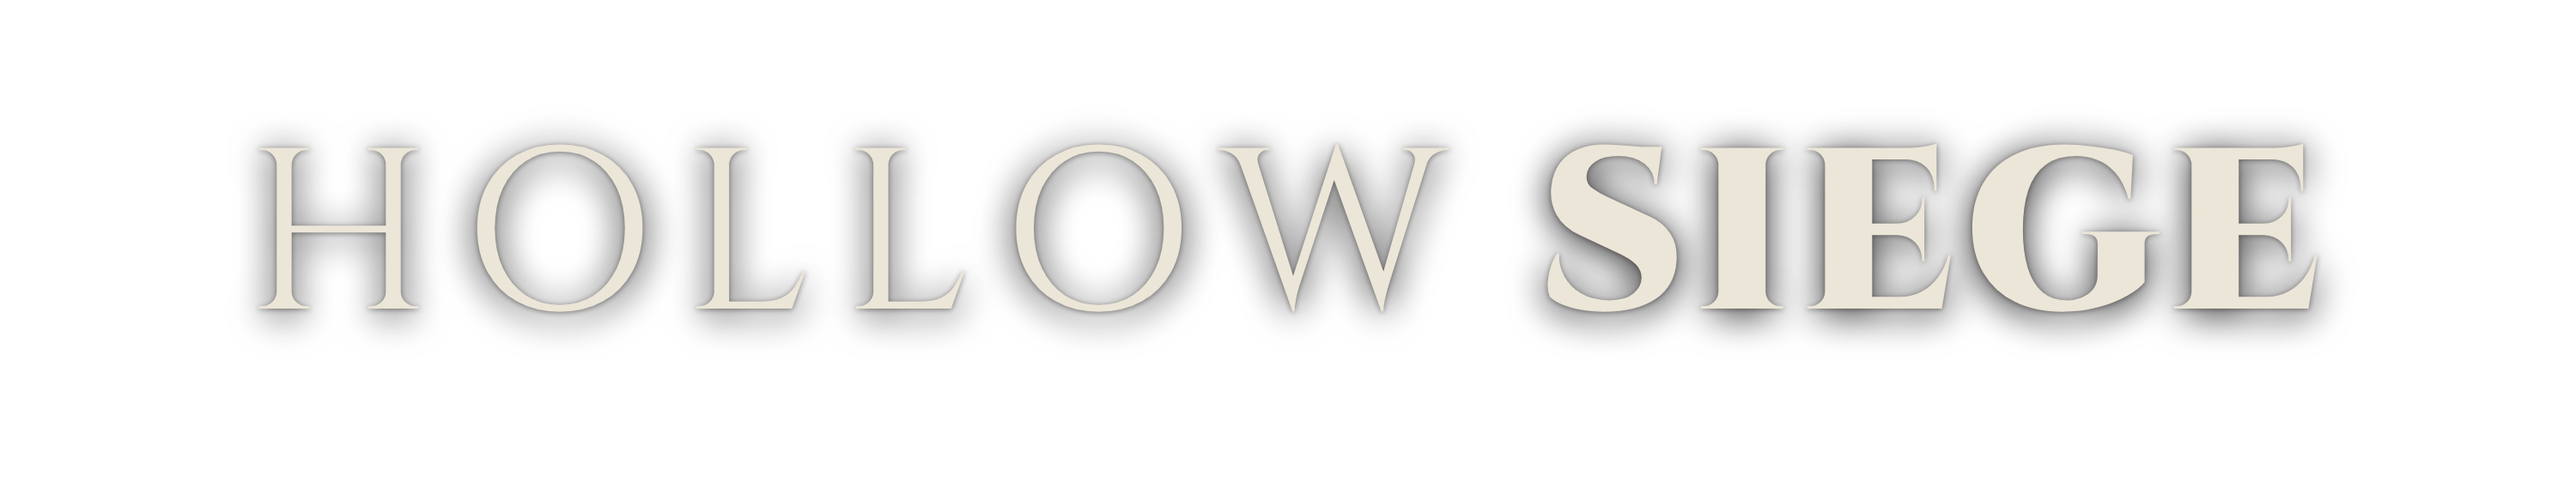
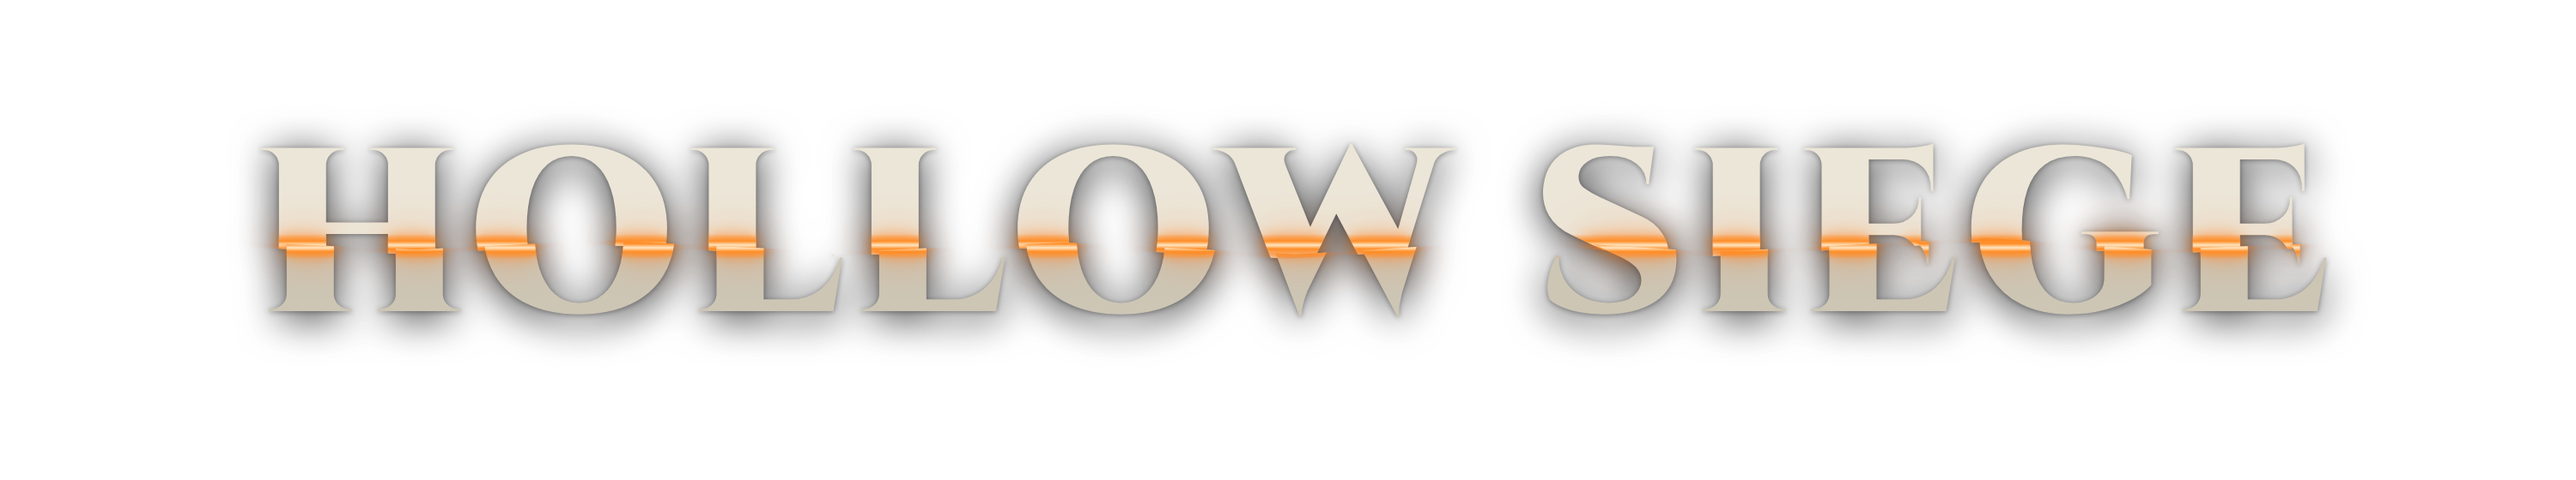
The wordmark gets its fracture, properly masked this time
Carved bone-white Cinzel split by an ember crack - the same signature as
the statue the cinematic trailer opens on, and the same orange as the
molten fissures around the anchors in the artwork. The lower half is
displaced nine pixels right and three down and sits a shade darker, so
the break reads as displacement.

Two earlier attempts were thrown away and both failed the same way: a
blurred orange rectangle behind the text bleeds across the letters and
reads as a highlighter stroke. The fix is to put the orange in a
background-image and background-clip it to the text, so the glow exists
only inside the letterforms and blooms off the glyph shape. Four layers
- bone top, bone bottom, heat top, heat bottom - all clipped to the
glyphs.

The other thing that was wrong: the two halves had a gap between their
clip paths, so the background showed through along the whole word and it
was a strikethrough again. They now overlap by about 3%. The
displacement is what says broken, not a gap. A version with the
displacement and no ember was rendered to check, and it reads as a
printing error - the ember is doing the work.

Checked at 460x215 and 231x87 on a cold slate ground and a warm one, and
at 120x45 where the word still reads and the ember becomes a warm smear.

Claude-Session: https://claude.ai/code/session_01SHhBFXXCMQxTyw3U1kGZgM

Changed region(s): [[0.093, 0.2732, 0.558, 0.6982], [0.589, 0.3036, 0.93, 0.6679], [0.744, 0.3339, 0.775, 0.3643]]

diff --git a/Docs/capsule/wordmark.html b/Docs/capsule/wordmark.html
@@ -1,35 +1,51 @@
 <!doctype html><html><head><meta charset="utf-8">
 <!--
-  Hollow Siege wordmark.
+  Hollow Siege wordmark — carved stone, split by an ember fracture.
+  Echoes the cracked statue the cinematic trailer opens on.
 
-  Flat, one colour, no gradient, no outline, no ornament. The only idea in it
-  is the weight contrast: HOLLOW set light and open, SIEGE set black and tight.
-  That reads as the two halves of the title rather than as decoration, and it
-  is the thing that survives being shrunk to 231px.
+  FOUR LAYERS, ALL CLIPPED TO THE GLYPHS.
+    1  bone, upper half, clipped along an irregular break
+    2  bone slightly darker, lower half, same break, offset 9px right / 3px down
+    3  heat, upper half
+    4  heat, lower half
+  The heat layers are a thin orange band in a background-image that is then
+  background-clip:text — so the glow exists ONLY inside the letterforms and
+  blooms off the glyph shape. Blurring a rectangle behind the text instead,
+  which was the first attempt, bleeds over the letters and reads as a
+  highlighter stroke.
 
-  What it deliberately is NOT: a vertical gold gradient with a heavy black
-  keyline and a drop shadow and an ornamental divider. That combination is the
-  default Photoshop layer style for fantasy logos and it reads as a free asset
-  pack, which is exactly how the first attempt came out.
+  THE HALVES OVERLAP BY ~3%. With a gap between the clip paths the background
+  shows through along the whole word and it reads as a strikethrough. The
+  displacement, not a gap, is what says "broken".
 
   Render:
     chrome --headless --hide-scrollbars --default-background-color=00000000 \
            --window-size=3000,560 --screenshot=out.png file://.../wordmark.html
 -->
 <style>
-@font-face{font-family:'Cinzel';font-weight:400;
-  src:url('file:///home/user/MegaBonk/Assets/DownloadedFonts/Cinzel/static/Cinzel-Regular.ttf');}
 @font-face{font-family:'Cinzel';font-weight:900;
   src:url('file:///home/user/MegaBonk/Assets/DownloadedFonts/Cinzel/static/Cinzel-Black.ttf');}
 *{box-sizing:border-box}
 html,body{margin:0;padding:0;background:transparent;overflow:hidden}
 .wrap{width:3000px;height:560px;display:flex;align-items:center;justify-content:center}
-.mark{font-family:'Cinzel';font-size:268px;line-height:1.02;white-space:nowrap;
-  color:#ece6d8;
-  /* Just enough shadow to hold over a bright valley. Not a style, a necessity. */
-  filter:drop-shadow(0 6px 22px rgba(0,0,0,.62)) drop-shadow(0 1px 3px rgba(0,0,0,.5));}
-.mark .l{font-weight:400;letter-spacing:.145em}
-.mark .h{font-weight:900;letter-spacing:.045em}
+.m{position:relative;display:inline-block;line-height:1.02;white-space:nowrap;
+   font-family:'Cinzel';font-weight:900;font-size:268px;
+   letter-spacing:.055em;text-indent:.055em;
+   filter:drop-shadow(0 7px 24px rgba(0,0,0,.6)) drop-shadow(0 1px 3px rgba(0,0,0,.45));}
+.m > span{display:block;position:absolute;inset:0}
+.m > span:first-child{position:relative}
+.TOP{clip-path:polygon(0 0,100% 0,100% 53%,91% 56%,83% 51%,70% 57%,61% 52%,50% 58%,39% 53%,28% 57%,17% 52%,8% 56%,0 53%)}
+.BOT{clip-path:polygon(0 50%,8% 53%,17% 49%,28% 54%,39% 50%,50% 55%,61% 49%,70% 54%,83% 48%,91% 53%,100% 50%,100% 100%,0 100%);
+     transform:translate(9px,3px)}
+.bone{color:#ece6d8}
+.bone.lo{color:#cdc6b5}
+.heat{-webkit-background-clip:text;background-clip:text;color:transparent;
+  background-image:linear-gradient(180deg,transparent 47.5%,#ff8f2a 50.5%,#ffe6c2 52.2%,#ff8f2a 53.8%,transparent 57%);
+  filter:drop-shadow(0 0 8px rgba(255,130,30,.9)) drop-shadow(0 0 22px rgba(255,105,15,.4));}
 </style></head><body>
-<div class="wrap"><div class="mark"><span class="l">HOLLOW</span> <span class="h">SIEGE</span></div></div>
-</body></html>
+<div class="wrap"><div class="m">
+  <span class="bone TOP">HOLLOW SIEGE</span>
+  <span class="bone lo BOT">HOLLOW SIEGE</span>
+  <span class="heat TOP">HOLLOW SIEGE</span>
+  <span class="heat BOT">HOLLOW SIEGE</span>
+</div></div></body></html>

diff --git a/Docs/SteamCapsuleBrief.md b/Docs/SteamCapsuleBrief.md
@@ -272,35 +272,43 @@ including the ones whose capsules you were looking at.
 `Docs/capsule/wordmark.png` — 3000×560, transparent background.
 `Docs/capsule/wordmark.html` regenerates it.
 
-**Flat, one colour, no gradient, no outline, no ornament.** The only idea in
-it is the weight contrast: HOLLOW set light and open, SIEGE set black and
-tight. That reads as the two halves of the title rather than as decoration,
-and the heavy half is what survives being shrunk to 231 px. Cinzel, the game's
-own display face, already in the project.
+Cinzel Black, the game's own display face. Carved bone-white stone, **split by
+an ember fracture** — the same signature as the cracked statue the cinematic
+trailer opens on, and the same orange as the molten fissures around the
+anchors in the artwork. The lower half of the word is displaced nine pixels
+right and three down and sits a shade darker, so the break reads as
+displacement rather than as a drawn line.
 
-The only effect on it is a soft drop shadow, and that is a necessity rather
-than a style — the mark has to hold when it sits over the bright valley.
+No gradient, no keyline, no ornament, no subtitle. One idea, executed cleanly.
+
+#### How the fracture is built, because it is easy to get wrong
+
+Four layers, all clipped to the glyphs: bone upper half, bone lower half,
+heat upper, heat lower.
+
+The heat layers are a thin orange band in a `background-image` that is then
+`background-clip: text`. That is the whole trick — **the glow exists only
+inside the letterforms** and blooms off the glyph shape. The obvious approach,
+a blurred orange rectangle sitting behind the text, bleeds across the letters
+and reads as a highlighter stroke; that was the first two attempts and both
+were thrown away.
+
+The two halves **overlap by about 3%**. With a gap between the clip paths the
+background shows through along the whole word and you are back to a
+strikethrough. The displacement is what says broken, not a gap.
 
 #### What it deliberately is not
 
 The first attempt was a vertical gold gradient with a heavy black keyline, a
 drop shadow and an ornamental rule with a diamond. All four at once is the
-default Photoshop layer style for fantasy logos, and it read as a free asset
-pack. Each one on its own is survivable; together they are the look.
+default Photoshop layer style for fantasy logos and it read as a free asset
+pack. Each one alone is survivable; together they are the look.
 
-#### The crack idea, and why it is not in here
+#### Checked at size
 
-The strongest concept was a fracture running through the letterforms, echoing
-the trailer's split statue. It was tried three ways and it is not in the file.
-The problem is the light: a glow behind a gap has to be masked to the shape of
-the gap, and in CSS it is a blurred rectangle that bleeds over the letters and
-reads as a highlighter stroke rather than heat coming out of a break.
-
-It is still a good idea and it is worth doing **in Photoshop**, where the glow
-can be clipped to the gap: split the wordmark along an irregular horizontal
-path, offset the lower half by about ten pixels right and four down, and put
-the ember glow on a layer clipped to the gap only. Half an hour. Until then
-the plain mark is better than a badly executed clever one.
+Legible at 460×215 and at 231×87 on both a cold slate ground and a warm one.
+At 120×45 the word still reads and the ember becomes a warm smear, which is
+fine — the small capsule is its own asset anyway.
 
 ### Placing it
 
